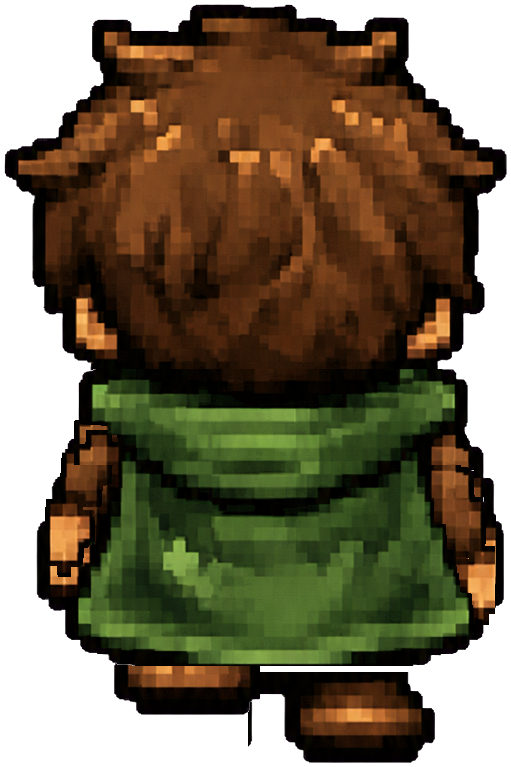
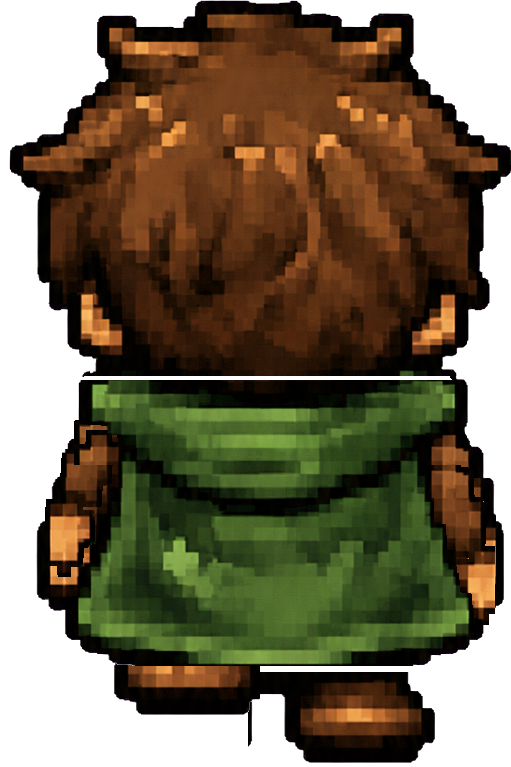
Polish Delver walk-up animation

diff --git a/js/art.js b/js/art.js
@@ -795,10 +795,14 @@ hero(ctx, dir, frame, px, py, tile, pushing, idle) {
   // The approved right-facing walk strip is also the left-facing cycle when
   // mirrored. Every cell has the same canvas and baseline as the idle sprites,
   // preventing frame-to-frame resizing or foot-line jitter in gameplay.
-  const walkSheet = this.img && this.img.player_walk_right_review;
-  if (!pushing && !idle && (dir === 'right' || dir === 'left') &&
+  const isUpWalk = dir === 'up';
+  const walkSheet = this.img && (isUpWalk
+    ? this.img.player_walk_up_review
+    : this.img.player_walk_right_review);
+  if (!pushing && !idle &&
+      (dir === 'right' || dir === 'left' || isUpWalk) &&
       walkSheet && this._ready(walkSheet)) {
-    const frameCount = 8;
+    const frameCount = isUpWalk ? 4 : 8;
     const sw = Math.floor(walkSheet.naturalWidth / frameCount);
     const sh = walkSheet.naturalHeight;
     const sx = (frame % frameCount) * sw;
@@ -808,7 +812,8 @@ hero(ctx, dir, frame, px, py, tile, pushing, idle) {
     // A tiny whole-body drop on each full-stride contact keeps the walk from
     // reading as a rigid torso with independently moving limbs. Frame 1 stays
     // pixel-aligned with idle, and the feet retain their existing artwork.
-    const bob = [0, 0, 1, 0, 0, 0, 1, 0][frame % frameCount] *
+    const bob = isUpWalk ? 0 :
+      [0, 0, 1, 0, 0, 0, 1, 0][frame % frameCount] *
       Math.max(1, Math.round(tile / 30));
     const dy = py + tile - dh + bob;
     ctx.save();
@@ -831,7 +836,7 @@ hero(ctx, dir, frame, px, py, tile, pushing, idle) {
     return;
   }
 
-  // Idle and vertical movement continue using the approved directional poses.
+  // Idle and downward movement continue using the approved directional poses.
   const idleSprite = this.img && this.img['player_idle_' + dir];
   if (idleSprite && this._ready(idleSprite)) {
     const dh = Math.round(tile * 1.05);

diff --git a/tests/player-walk.test.js b/tests/player-walk.test.js
@@ -30,13 +30,15 @@ const upHeight = upSheet.readUInt32BE(20);
 expect('approved gameplay walk sheet has eight equal 522px cells',
   width === 8 * 522 && height === 763);
 expect('horizontal gameplay movement selects the approved walk sheet',
-  art.includes("(dir === 'right' || dir === 'left')") &&
+  art.includes("dir === 'right' || dir === 'left' || isUpWalk") &&
   art.includes('player_walk_right_review'));
 expect('left gameplay movement mirrors the approved right cycle',
   art.includes("if (dir === 'left')") && art.includes('ctx.scale(-1, 1)'));
-expect('sprite lab uses the four-frame walk-up sheet',
+expect('sprite lab and gameplay use the four-frame walk-up sheet',
   upWidth === 4 * 511 && upHeight === 767 &&
   art.includes('player_walk_up_review') &&
+  art.includes("const isUpWalk = dir === 'up'") &&
+  art.includes('const frameCount = isUpWalk ? 4 : 8') &&
   screens.includes("const isUpWalk = anim.dir === 'up'"));
 expect('gameplay advances the walk cycle at twelve frames per second',
   game.includes('Math.floor(this.walkPhase * 5) % 8'));
@@ -48,7 +50,7 @@ expect('a new walk begins on the neutral first frame',
 expect('full-stride frames add a symmetrical whole-body bob',
   art.includes('[0, 0, 1, 0, 0, 0, 1, 0]') &&
   sourceHasSpriteLabBob());
-expect('idle and vertical movement retain directional idle sprites',
+expect('idle and downward movement retain directional idle sprites',
   art.includes("this.img['player_idle_' + dir]"));
 
 function sourceHasSpriteLabBob() {

diff --git a/js/screens.js b/js/screens.js
@@ -126,7 +126,7 @@ function easeOutBounce(x) {
 // top, bounces to a stop with a little screen-shake + thud, a shine sweeps
 // across it, then the rest of the screen fades in.
 // build stamp — bump this to the deploy time (Arizona/Phoenix time) on each update
-const BUILD_STAMP = '7/25/2026 4:17pm (mst)';
+const BUILD_STAMP = '7/25/2026 5:28pm (mst)';
 
 const ScreenTitle = {
   FALL: 0.85, SHINE_DELAY: 0.12, SHINE_DUR: 0.6,

diff --git a/scripts/fix_player_walk_up.py b/scripts/fix_player_walk_up.py
@@ -1,0 +1,241 @@
+from pathlib import Path
+from shutil import copy2
+from collections import deque
+
+from PIL import Image
+
+
+ROOT = Path(__file__).resolve().parents[1]
+DRAFT = ROOT / "art" / "animation_drafts" / "player_walk_up_8frame"
+LIVE = ROOT / "art" / "animations" / "player_walk_up"
+BACKUP = (
+    ROOT
+    / "art"
+    / "animation_backups"
+    / "player_walk_up"
+    / "pre_head_sync_2026-07-25"
+)
+IDLE = ROOT / "art" / "player_idle" / "player_idle_up.png"
+FRAME_NAMES = [f"frame_{number:02}.png" for number in range(1, 5)]
+
+
+def backup_current_files():
+    BACKUP.mkdir(parents=True, exist_ok=True)
+    for name in FRAME_NAMES:
+        source = DRAFT / name
+        destination = BACKUP / name
+        if source.exists() and not destination.exists():
+            copy2(source, destination)
+    live_sheet = LIVE / "sprite_sheet_review.png"
+    backup_sheet = BACKUP / "sprite_sheet_review.png"
+    if live_sheet.exists() and not backup_sheet.exists():
+        copy2(live_sheet, backup_sheet)
+
+
+def shifted_head(base, dx, dy):
+    """Return the idle head moved with the cape without resampling pixels."""
+    width, height = base.size
+    head_bottom = 380
+    head = base.crop((0, 0, width, head_bottom))
+    layer = Image.new("RGBA", base.size)
+    layer.alpha_composite(head, (dx, dy))
+    return layer
+
+
+def replace_stationary_head(frame, idle, dx, dy):
+    result = frame.copy()
+    idle_pixels = idle.load()
+    result_pixels = result.load()
+
+    # The generated step frames retained the idle head exactly. Remove only
+    # that stationary head, leaving the cape, arms, hands, and legs untouched.
+    for y in range(380):
+        for x in range(idle.width):
+            if idle_pixels[x, y][3]:
+                result_pixels[x, y] = (0, 0, 0, 0)
+
+    result.alpha_composite(shifted_head(idle, dx, dy))
+    return result
+
+
+def repair_isolated_alpha_defects(image):
+    """Fill only enclosed one-pixel alpha defects; preserve real outer edges."""
+    result = image.copy()
+    width, height = result.size
+
+    for _ in range(12):
+        source = result.copy()
+        src = source.load()
+        dst = result.load()
+        repairs = 0
+        for y in range(1, height - 1):
+            for x in range(1, width - 1):
+                pixel = src[x, y]
+                neighbors = [
+                    src[x + ox, y + oy]
+                    for oy in (-1, 0, 1)
+                    for ox in (-1, 0, 1)
+                    if ox or oy
+                ]
+                solid = [neighbor for neighbor in neighbors if neighbor[3] >= 240]
+
+                # A transparent pinhole or weak-alpha speck fully enclosed by
+                # solid artwork is an artifact, not a legitimate silhouette.
+                if pixel[3] < 240 and len(solid) >= 7:
+                    channels = [
+                        sorted(neighbor[channel] for neighbor in solid)
+                        for channel in range(3)
+                    ]
+                    dst[x, y] = tuple(
+                        channel[len(channel) // 2] for channel in channels
+                    ) + (255,)
+                    repairs += 1
+        if not repairs:
+            break
+
+    return result
+
+
+def repair_enclosed_transparent_specks(image):
+    """Fill tiny transparent islands that do not connect to the background."""
+    result = image.copy()
+    pixels = result.load()
+    width, height = result.size
+    transparent = {
+        (x, y)
+        for y in range(height)
+        for x in range(width)
+        if pixels[x, y][3] < 16
+    }
+    edge = deque(
+        [(x, y) for x in range(width) for y in (0, height - 1)
+         if (x, y) in transparent]
+        + [(x, y) for y in range(height) for x in (0, width - 1)
+           if (x, y) in transparent]
+    )
+    outside = set(edge)
+    while edge:
+        x, y = edge.popleft()
+        for neighbor in ((x - 1, y), (x + 1, y), (x, y - 1), (x, y + 1)):
+            if neighbor in transparent and neighbor not in outside:
+                outside.add(neighbor)
+                edge.append(neighbor)
+
+    enclosed = transparent - outside
+    while enclosed:
+        start = enclosed.pop()
+        component = {start}
+        queue = deque([start])
+        while queue:
+            x, y = queue.popleft()
+            for neighbor in (
+                (x - 1, y),
+                (x + 1, y),
+                (x, y - 1),
+                (x, y + 1),
+            ):
+                if neighbor in enclosed:
+                    enclosed.remove(neighbor)
+                    component.add(neighbor)
+                    queue.append(neighbor)
+
+        if len(component) > 12:
+            continue
+        boundary = []
+        for x, y in component:
+            for ox, oy in (
+                (-1, -1), (0, -1), (1, -1),
+                (-1, 0),           (1, 0),
+                (-1, 1),  (0, 1),  (1, 1),
+            ):
+                nx, ny = x + ox, y + oy
+                if (
+                    0 <= nx < width
+                    and 0 <= ny < height
+                    and pixels[nx, ny][3] >= 200
+                ):
+                    boundary.append(pixels[nx, ny])
+        if not boundary:
+            continue
+        medians = []
+        for channel in range(3):
+            values = sorted(pixel[channel] for pixel in boundary)
+            medians.append(values[len(values) // 2])
+        for x, y in component:
+            pixels[x, y] = tuple(medians) + (255,)
+
+    return result
+
+
+def count_isolated_alpha_defects(image):
+    pixels = image.load()
+    count = 0
+    for y in range(1, image.height - 1):
+        for x in range(1, image.width - 1):
+            if pixels[x, y][3] >= 240:
+                continue
+            solid_neighbors = 0
+            for oy in (-1, 0, 1):
+                for ox in (-1, 0, 1):
+                    if (ox or oy) and pixels[x + ox, y + oy][3] >= 240:
+                        solid_neighbors += 1
+            if solid_neighbors >= 7:
+                count += 1
+    return count
+
+
+def main():
+    backup_current_files()
+
+    idle = Image.open(IDLE).convert("RGBA")
+    frames = [
+        idle.copy(),
+        replace_stationary_head(
+            Image.open(BACKUP / "frame_02.png").convert("RGBA"),
+            idle,
+            5,
+            -4,
+        ),
+        idle.copy(),
+        replace_stationary_head(
+            Image.open(BACKUP / "frame_04.png").convert("RGBA"),
+            idle,
+            -5,
+            -4,
+        ),
+    ]
+    frames = [
+        repair_isolated_alpha_defects(
+            repair_enclosed_transparent_specks(frame)
+        )
+        for frame in frames
+    ]
+
+    if any(frame.size != idle.size for frame in frames):
+        raise RuntimeError("Walk-up frames no longer share the idle dimensions")
+    if frames[0].tobytes() != frames[2].tobytes():
+        raise RuntimeError("Neutral frames must remain identical")
+
+    for index, frame in enumerate(frames, start=1):
+        defects = count_isolated_alpha_defects(frame)
+        if defects:
+            raise RuntimeError(
+                f"frame {index} still has {defects} enclosed alpha defects"
+            )
+        frame.save(DRAFT / f"frame_{index:02}.png", optimize=True)
+
+    sheet = Image.new("RGBA", (idle.width * len(frames), idle.height))
+    for index, frame in enumerate(frames):
+        sheet.alpha_composite(frame, (index * idle.width, 0))
+
+    LIVE.mkdir(parents=True, exist_ok=True)
+    sheet.save(LIVE / "sprite_sheet_review.png", optimize=True)
+    sheet.save(DRAFT / "sprite_sheet_progress.png", optimize=True)
+
+    print("Walk-up frames repaired and sheet rebuilt.")
+    print("Head offsets: frame 2 = (+5, -4), frame 4 = (-5, -4).")
+    print("Isolated transparent/weak-alpha defects: 0 in all frames.")
+
+
+if __name__ == "__main__":
+    main()
